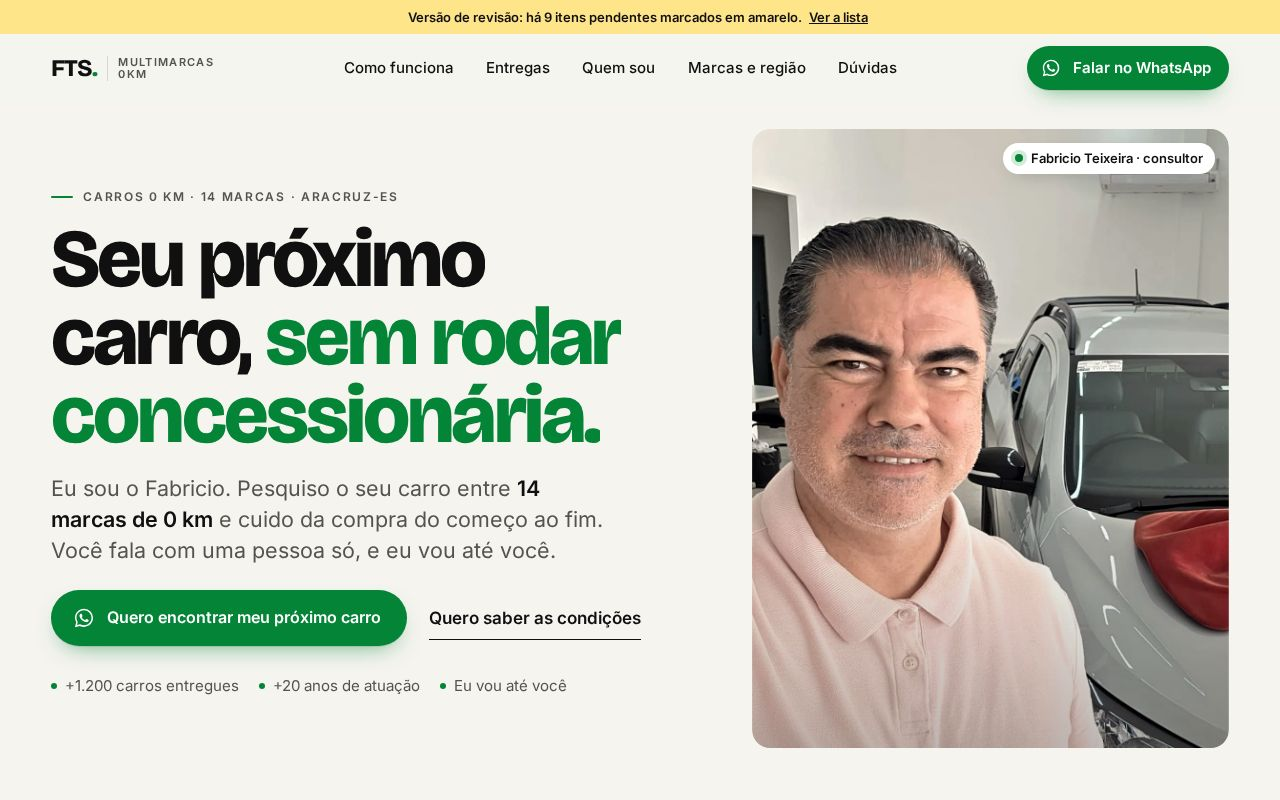
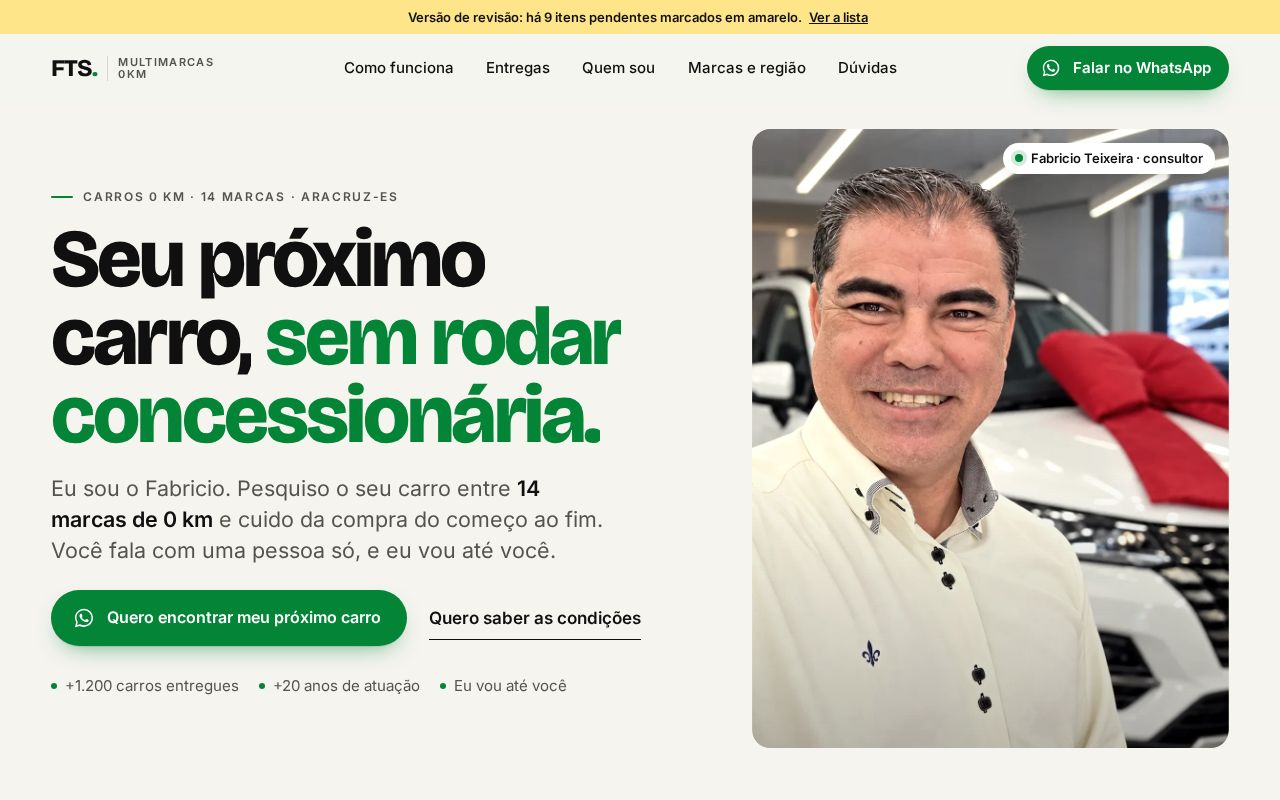
Site FTS: nova foto do topo e novo retrato da assinatura
- Topo com a selfie do Fabricio diante de um SUV branco com laço vermelho
- Círculo da assinatura 14 → 1 com o retrato sorrindo de frente
- Imagem de compartilhamento atualizada

Claude-Session: https://claude.ai/code/session_01GiJ2UYo2WCLZq6syNtJtXF

Changed region(s): [[0.5625, 0.1562, 0.9688, 0.9375]]

diff --git a/fts-multimarcas/index.html b/fts-multimarcas/index.html
@@ -1067,7 +1067,7 @@ const CONFIG = {
 
   // Fotos reais (WebP). Rode tools/tratar-fotos.mjs para gerar os recortes com o tratamento de cor.
   fotos: {
-    hero:    { desktop: 'assets/fotos/hero-desktop.webp', mobile: 'assets/fotos/hero-mobile.webp', alt: 'Fabricio Teixeira sorrindo ao lado de uma Saveiro 0 km com laço vermelho, no dia da entrega', largura: 1000, altura: 1300 },
+    hero:    { desktop: 'assets/fotos/hero-desktop.webp', mobile: 'assets/fotos/hero-mobile.webp', alt: 'Fabricio Teixeira sorrindo diante de um SUV branco 0 km com laço vermelho, no dia da entrega', largura: 1000, altura: 1300 },
     retrato: { src: 'assets/fotos/retrato.webp', alt: '' }, // recorte quadrado do rosto, usado no círculo da assinatura
     acao:    { desktop: 'assets/fotos/acao.webp', mobile: '', alt: 'Fabricio Teixeira com o casal Joacir e esposa na entrega da Strada, com o carro coberto por um laço vermelho', largura: 1200, altura: 900 },
     video:   { mp4: '', poster: '' }, // opcional: 6–12 s de uma entrega, sem som
